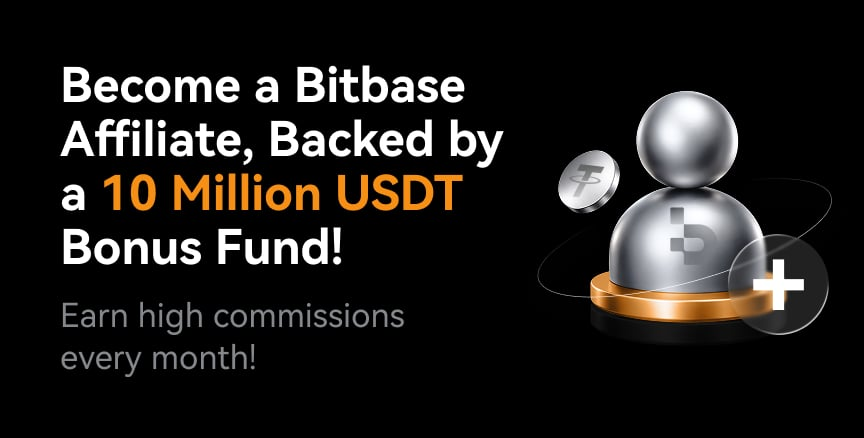
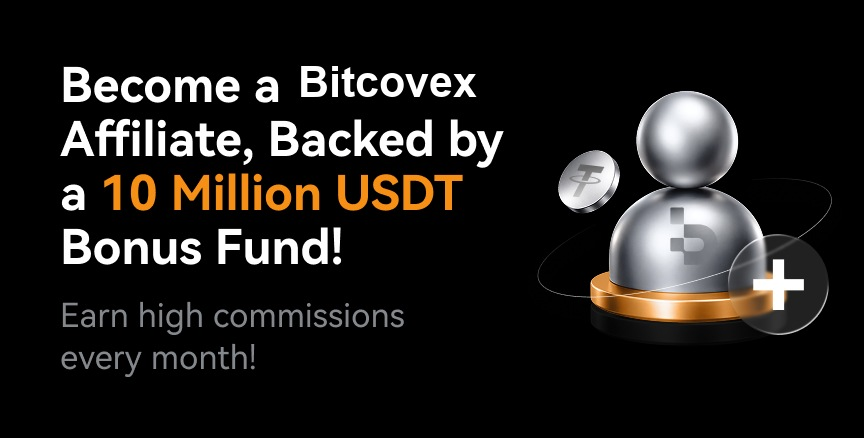
Fix remaining Bitbase branding + console warnings
- Edit Affiliate + VIP promo banners: Bitbase -> Bitcovex (in-image)
- Replace Bitbase vector wordmark/watermark with Bitcovex text site-wide (app.js)
- Remove unused Web-banner.webp preload (console warnings)

Changed region(s): [[0.3438, 0.1484, 0.5625, 0.2374]]

diff --git a/public/js/app.js b/public/js/app.js
@@ -18,6 +18,20 @@
     });
   }
 
+  // Replace any leftover "Bitbase" vector wordmark (viewBox 0 0 131 26) with
+  // "Bitcovex" text — covers the header logo and faint app-section watermark.
+  function wireWordmarks() {
+    document.querySelectorAll('svg[viewBox="0 0 131 26"]').forEach((s) => {
+      if (s.dataset.cvxWm) return;
+      s.dataset.cvxWm = '1';
+      const h = s.getBoundingClientRect().height || parseFloat(s.getAttribute('height')) || 22;
+      const span = document.createElement('span');
+      span.textContent = 'Bitcovex';
+      span.style.cssText = 'font-weight:800;font-size:' + (h * 0.92) + 'px;letter-spacing:-0.5px;color:currentColor;white-space:nowrap;line-height:1;display:inline-block';
+      s.replaceWith(span);
+    });
+  }
+
   let tickerMap = null;
   async function loadTicker() {
     try {
@@ -83,9 +97,9 @@
 
   async function tick() { if (!tickerMap) await loadTicker(); applyPrices(); }
   function start() {
-    wireTopNav(); loadTicker().then(() => { applyPrices(); });
+    wireTopNav(); wireWordmarks(); loadTicker().then(() => { applyPrices(); });
     wireTrade();
-    setInterval(() => { wireTopNav(); wireTrade(); }, 3000);
+    setInterval(() => { wireTopNav(); wireWordmarks(); wireTrade(); }, 3000);
     setInterval(async () => { await loadTicker(); applyPrices(); }, 5000);
   }
   if (document.readyState === 'loading') document.addEventListener('DOMContentLoaded', start);

diff --git a/public/index.html b/public/index.html
@@ -7,7 +7,7 @@
         
     
     <meta name="viewport" content="width=device-width, initial-scale=1">
-    <link href="/cdn/brand/logo.png" rel="icon" type="image/png"><link href="/cdn/brand/logo.png" rel="apple-touch-icon" type="image/png"><title>Bitcovex Crypto Exchange | Buy Bitcoin &amp; Trade Crypto Securely</title><meta content="Bitcovex Crypto Exchange | Buy Bitcoin &amp; Trade Crypto Securely" property="og:title"><meta content="Trade Bitcoin, Ethereum, and top cryptocurrencies on Bitcovex with low fees, deep liquidity, and advanced security." name="description"><meta content="Trade Bitcoin, Ethereum, and top cryptocurrencies on Bitcovex with low fees, deep liquidity, and advanced security." property="og:description"><meta content="Bitcovex, crypto exchange, buy bitcoin, trade crypto, cryptocurrency exchange, BTC trading, ETH trading, secure crypto exchange" name="keywords"><meta content="/cdn/brand/og/bitbase-en.png" property="og:image"><meta content="/cdn/brand/og/bitbase-en.png" property="og:image:secure_url"><meta content="image/jpeg" property="og:image:type"><meta content="1200" property="og:image:width"><meta content="630" property="og:image:height"><meta content="Bitcovex" property="og:site_name"><meta content="website" property="og:type"><meta content="@Bitcovex_Ex" property="twitter:site"><meta content="summary_large_image" property="twitter:card"><meta content="/cdn/brand/og/bitbase-en.png" property="twitter:image"><link href="" rel="canonical"><meta content="" property="og:url"><link href="" hreflang="x-default" rel="alternate"><link href="/de-DE" hreflang="de-DE" rel="alternate"><link href="" hreflang="en" rel="alternate"><link href="/pl-PL" hreflang="pl-PL" rel="alternate"><link href="/ru-RU" hreflang="ru-RU" rel="alternate"><link href="/zh-CN" hreflang="zh-CN" rel="alternate"><link href="/zh-HK" hreflang="zh-HK" rel="alternate"><link as="image" fetchpriority="high" href="/cdn/imgs/index-web/home/Web-banner.webp" media="(min-width: 768px)" rel="preload">
+    <link href="/cdn/brand/logo.png" rel="icon" type="image/png"><link href="/cdn/brand/logo.png" rel="apple-touch-icon" type="image/png"><title>Bitcovex Crypto Exchange | Buy Bitcoin &amp; Trade Crypto Securely</title><meta content="Bitcovex Crypto Exchange | Buy Bitcoin &amp; Trade Crypto Securely" property="og:title"><meta content="Trade Bitcoin, Ethereum, and top cryptocurrencies on Bitcovex with low fees, deep liquidity, and advanced security." name="description"><meta content="Trade Bitcoin, Ethereum, and top cryptocurrencies on Bitcovex with low fees, deep liquidity, and advanced security." property="og:description"><meta content="Bitcovex, crypto exchange, buy bitcoin, trade crypto, cryptocurrency exchange, BTC trading, ETH trading, secure crypto exchange" name="keywords"><meta content="/cdn/brand/og/bitbase-en.png" property="og:image"><meta content="/cdn/brand/og/bitbase-en.png" property="og:image:secure_url"><meta content="image/jpeg" property="og:image:type"><meta content="1200" property="og:image:width"><meta content="630" property="og:image:height"><meta content="Bitcovex" property="og:site_name"><meta content="website" property="og:type"><meta content="@Bitcovex_Ex" property="twitter:site"><meta content="summary_large_image" property="twitter:card"><meta content="/cdn/brand/og/bitbase-en.png" property="twitter:image"><link href="" rel="canonical"><meta content="" property="og:url"><link href="" hreflang="x-default" rel="alternate"><link href="/de-DE" hreflang="de-DE" rel="alternate"><link href="" hreflang="en" rel="alternate"><link href="/pl-PL" hreflang="pl-PL" rel="alternate"><link href="/ru-RU" hreflang="ru-RU" rel="alternate"><link href="/zh-CN" hreflang="zh-CN" rel="alternate"><link href="/zh-HK" hreflang="zh-HK" rel="alternate">
     
     
     